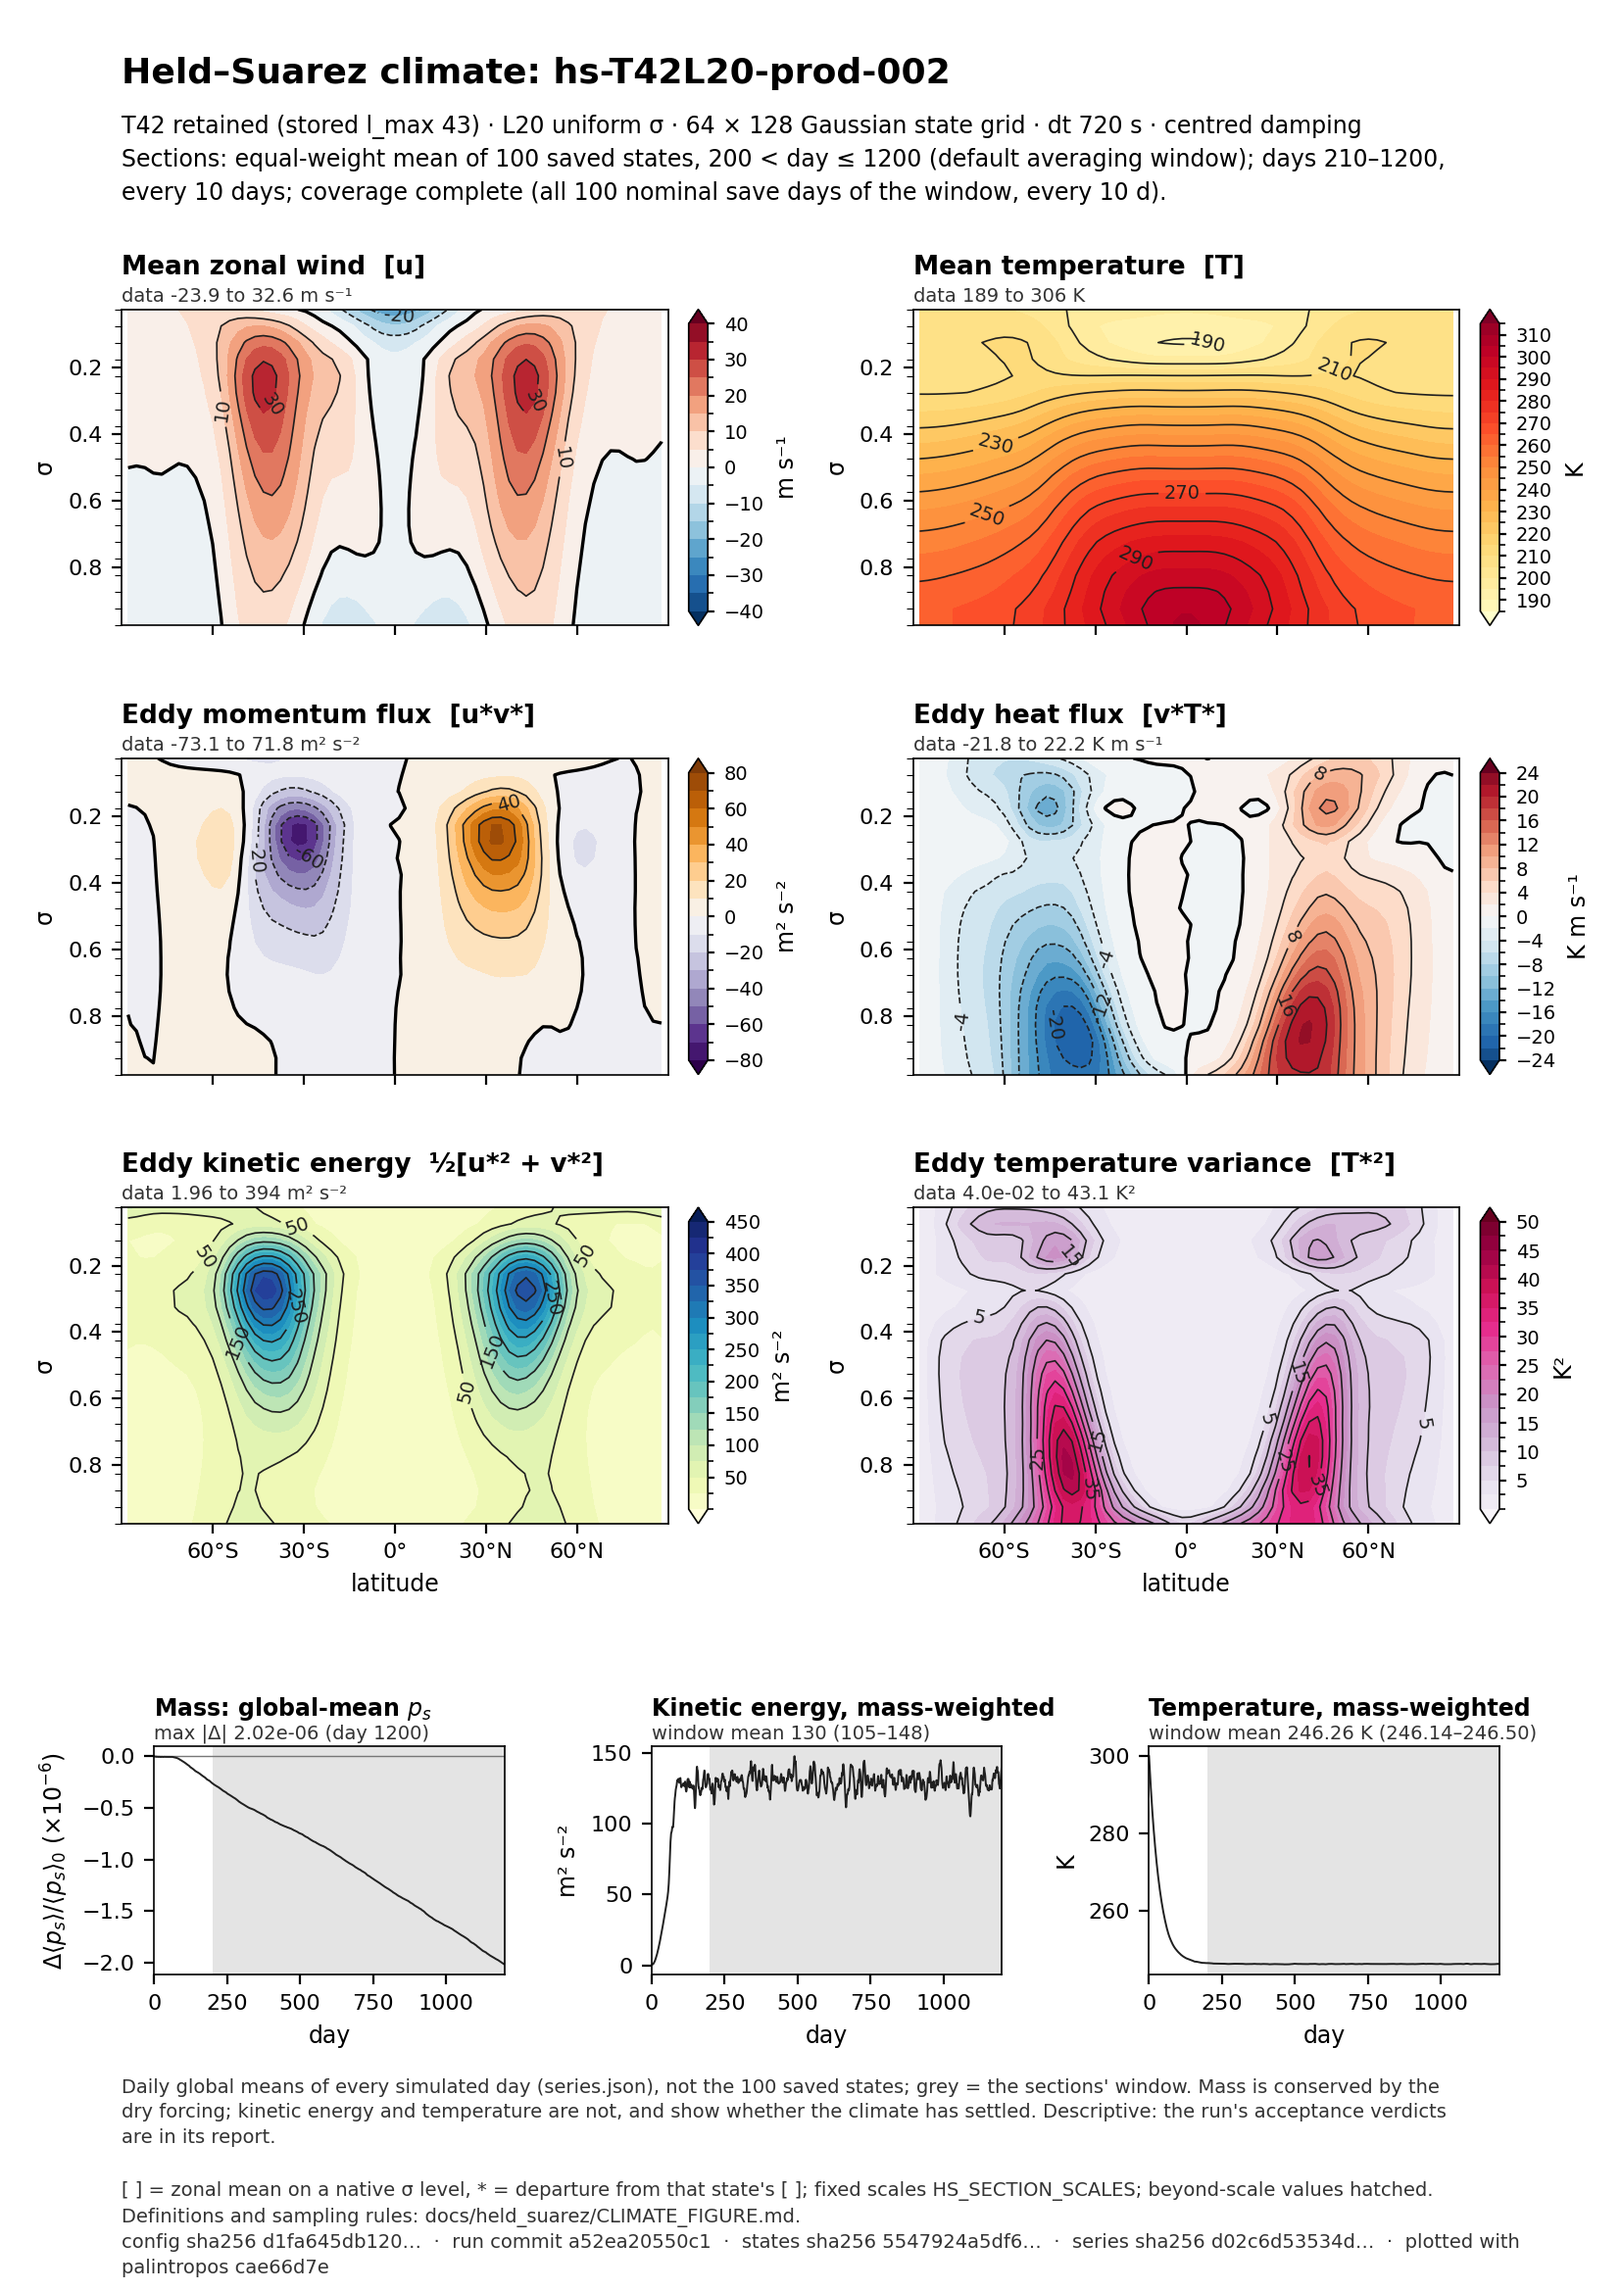
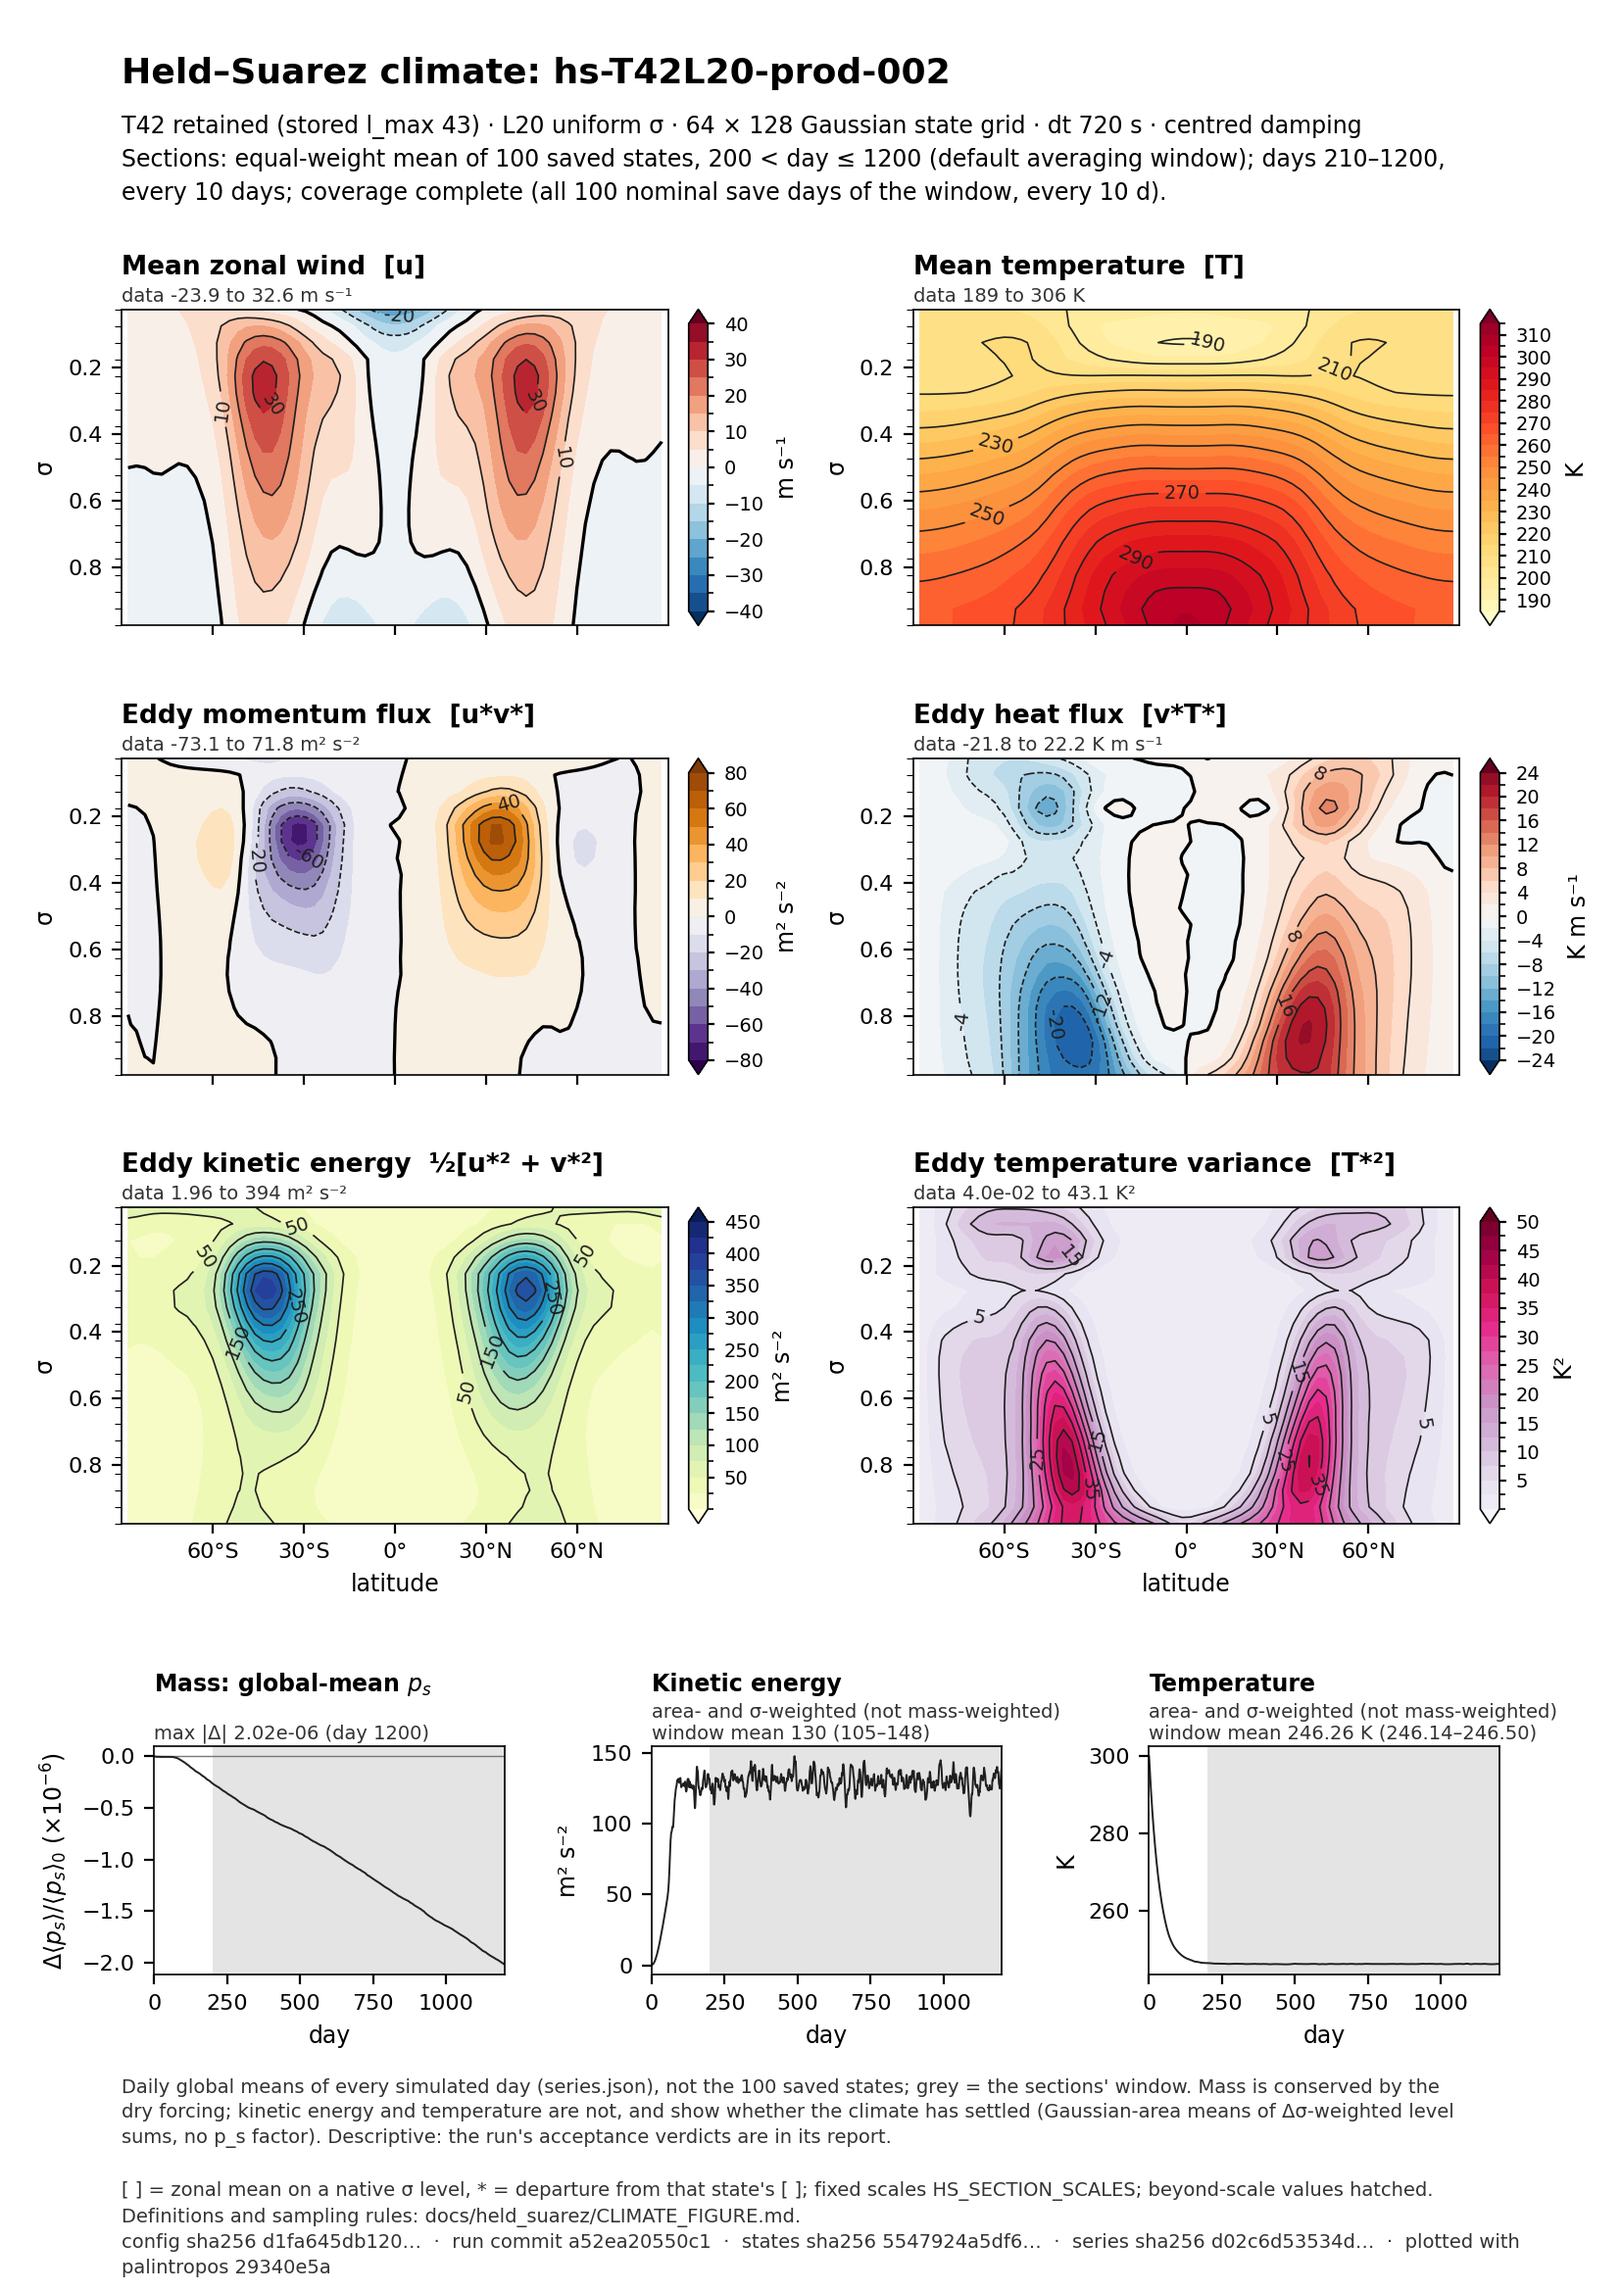
Redraw the published figure with the corrected KE and T labels
Drawn at the clean commit 29340e5; the section values are unchanged.

Refs #17

diff --git a/docs/validation/held_suarez_climate_2026-11-04/README.md b/docs/validation/held_suarez_climate_2026-11-04/README.md
@@ -3,7 +3,8 @@
 These are the six latitude–σ climate sections of the production run
 `hs-T42L20-prod-002`, drawn on the CPU by `Simulation.plot()`
 ([CLIMATE_FIGURE.md](../../held_suarez/CLIMATE_FIGURE.md)). Under them, a strip
-draws the run's daily global mass drift, kinetic energy and temperature from its
+draws the run's daily global mass drift, and its area- and σ-weighted (not
+mass-weighted) kinetic energy and temperature, from its
 `series.json`, with the averaging window shaded. The run's archive
 is not published (217 MB of states in a git-ignored directory). Only the
 figure and its numbers are here.
@@ -14,7 +15,7 @@ figure and its numbers are here.
 | `hs-T42L20-prod-002_climate.pdf` | the same figure as a PDF (filled bands rasterized, lines and text vector) |
 | `hs-T42L20-prod-002_climate.json` | sidecar: every number drawn, the 100 state files with their SHA-256, grid, bandlimit, scales, and the daily series with the SHA-256 of `series.json` |
 
-Command (CPU only, plotting code at the clean commit `cae66d7e`):
+Command (CPU only, plotting code at the clean commit `29340e5a`):
 
 ```python
 from tropoi.representation.archive import open_simulation
@@ -40,7 +41,7 @@ The strip, from all 1201 daily values (days 0–1200):
 - inside the window, kinetic energy is 105–148 m² s⁻² (mean 130);
 - inside the window, temperature is 246.14–246.50 K (mean 246.26).
 
-This draw took 51.0 s wall time on the development laptop's CPU, 47.8 s of
+This draw took 61.0 s wall time on the development laptop's CPU, 57.5 s of
 it reduction (reading and hashing 100 states and synthesizing u, v, T). Peak
 working set was 203 MiB, against 60 MiB after imports. Other draws took
 50–65 s. The section values are identical across draws, including those made
